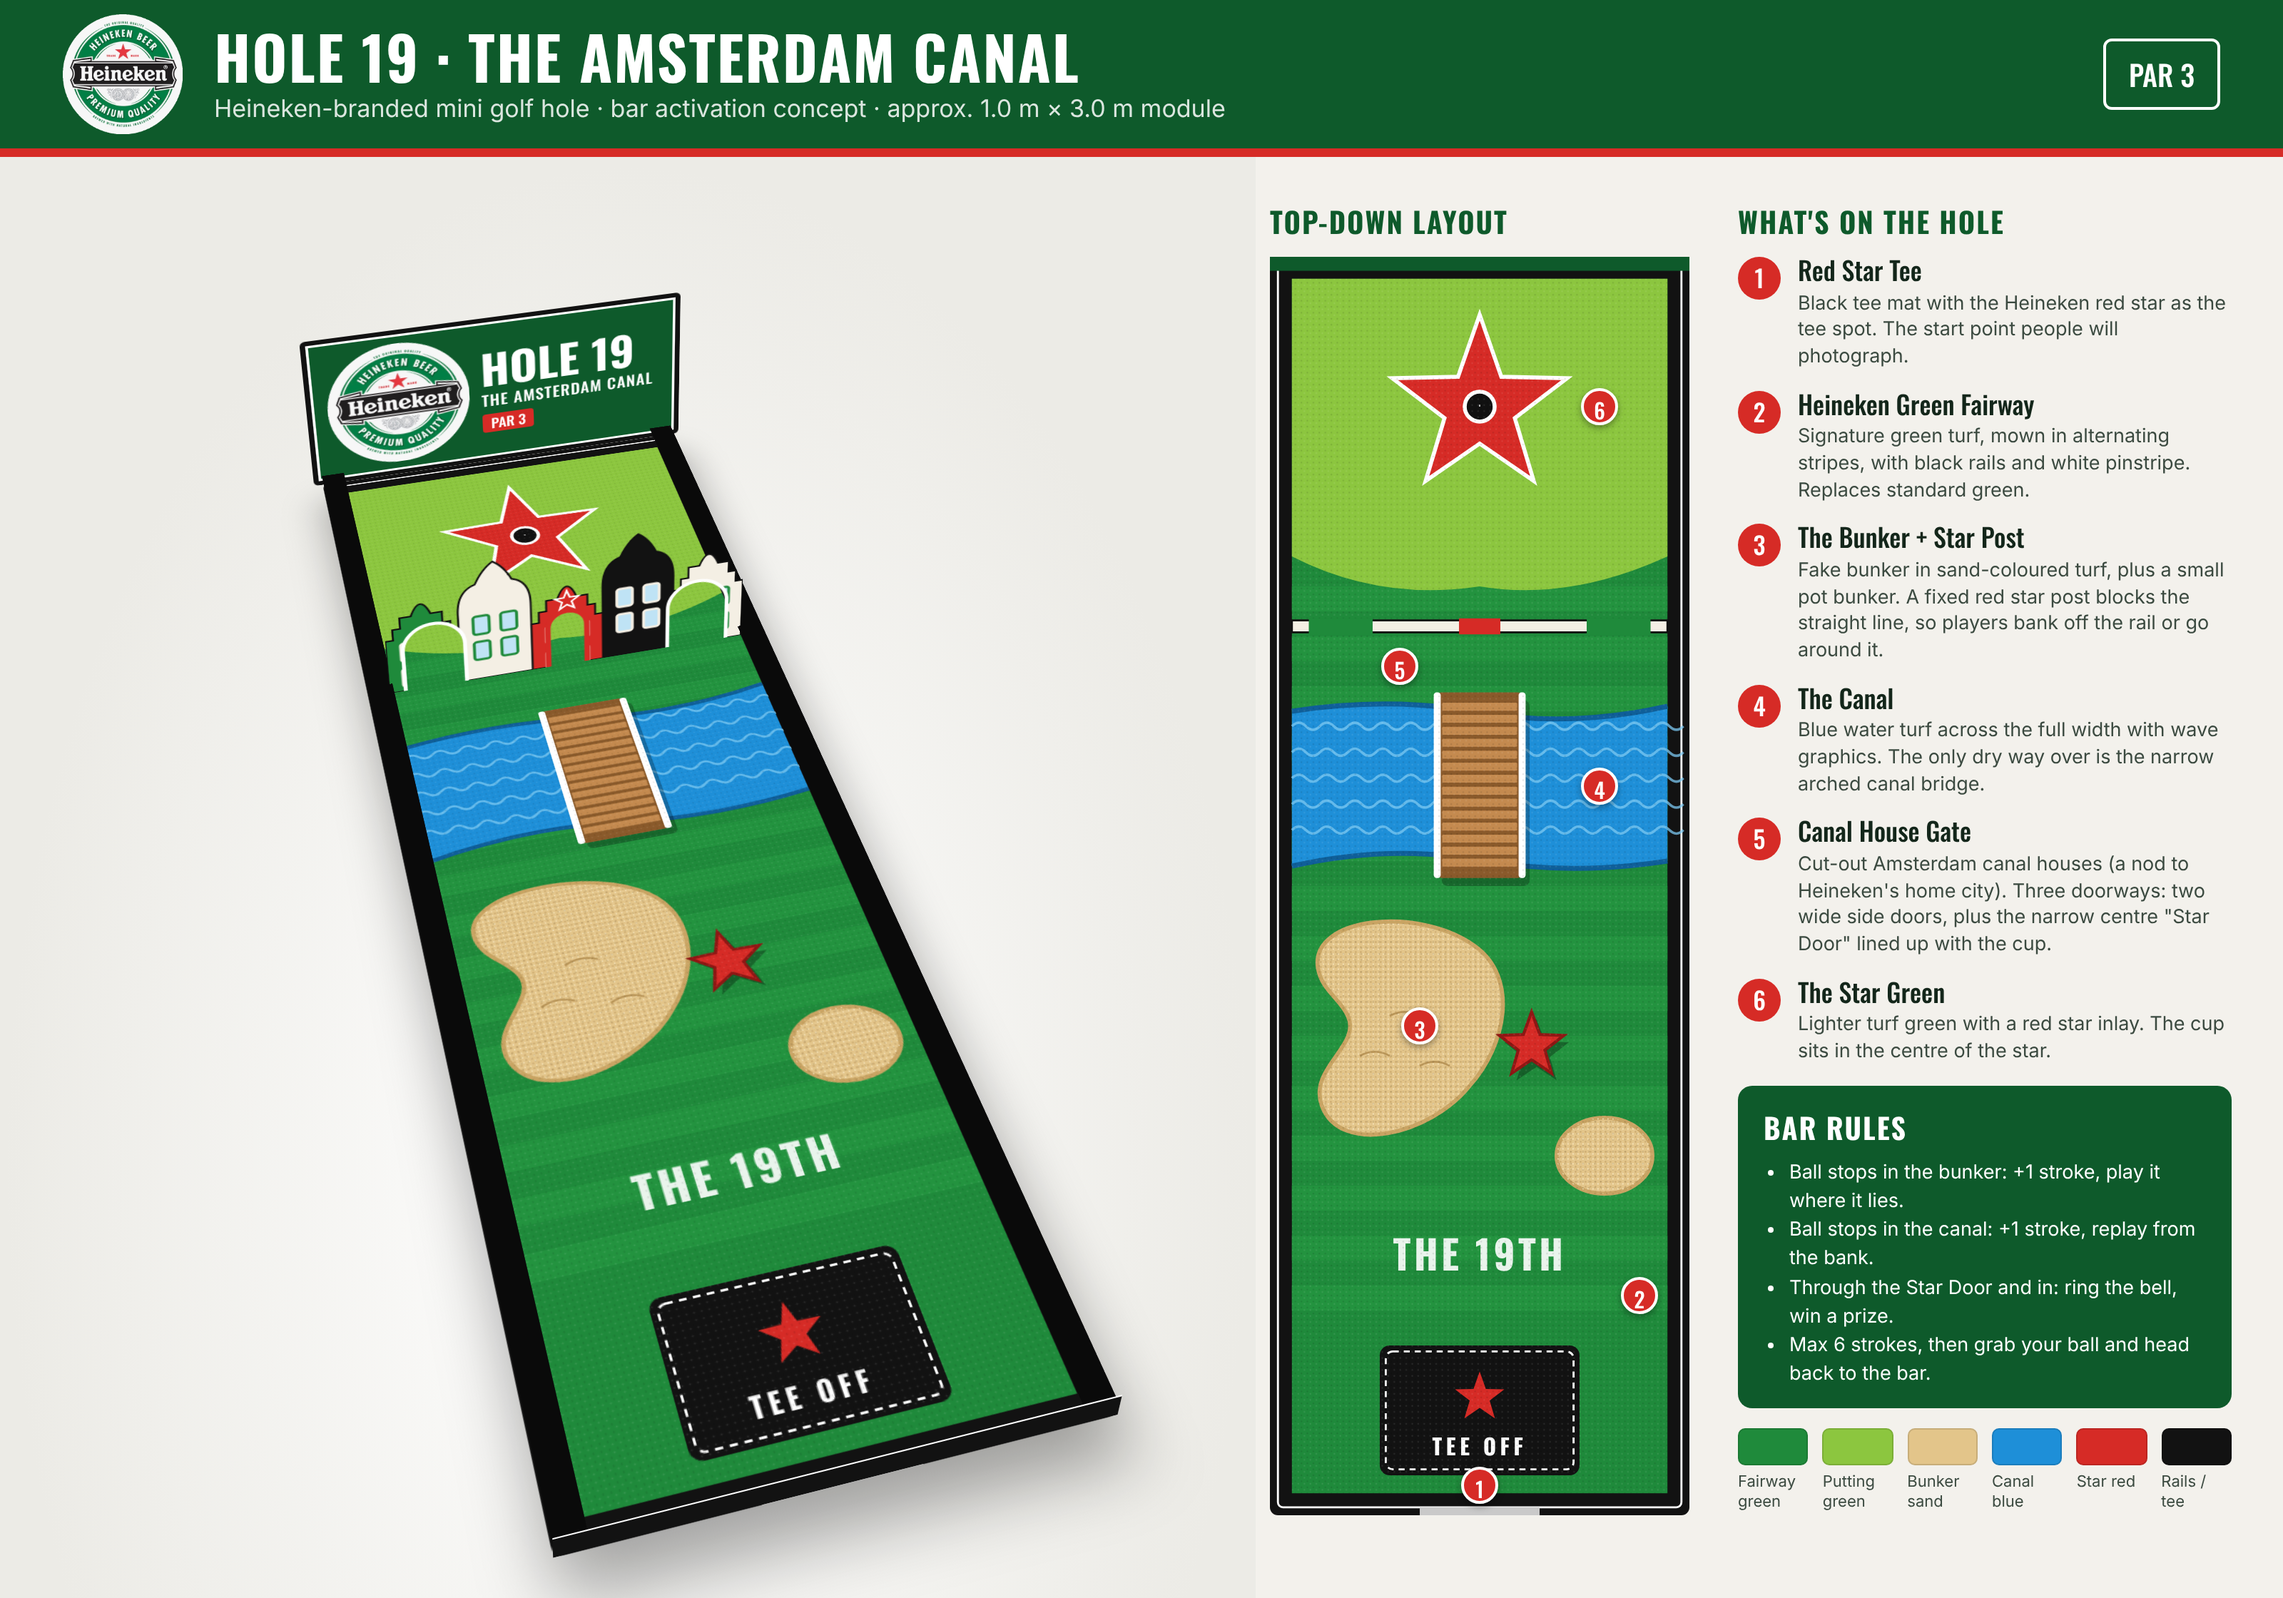
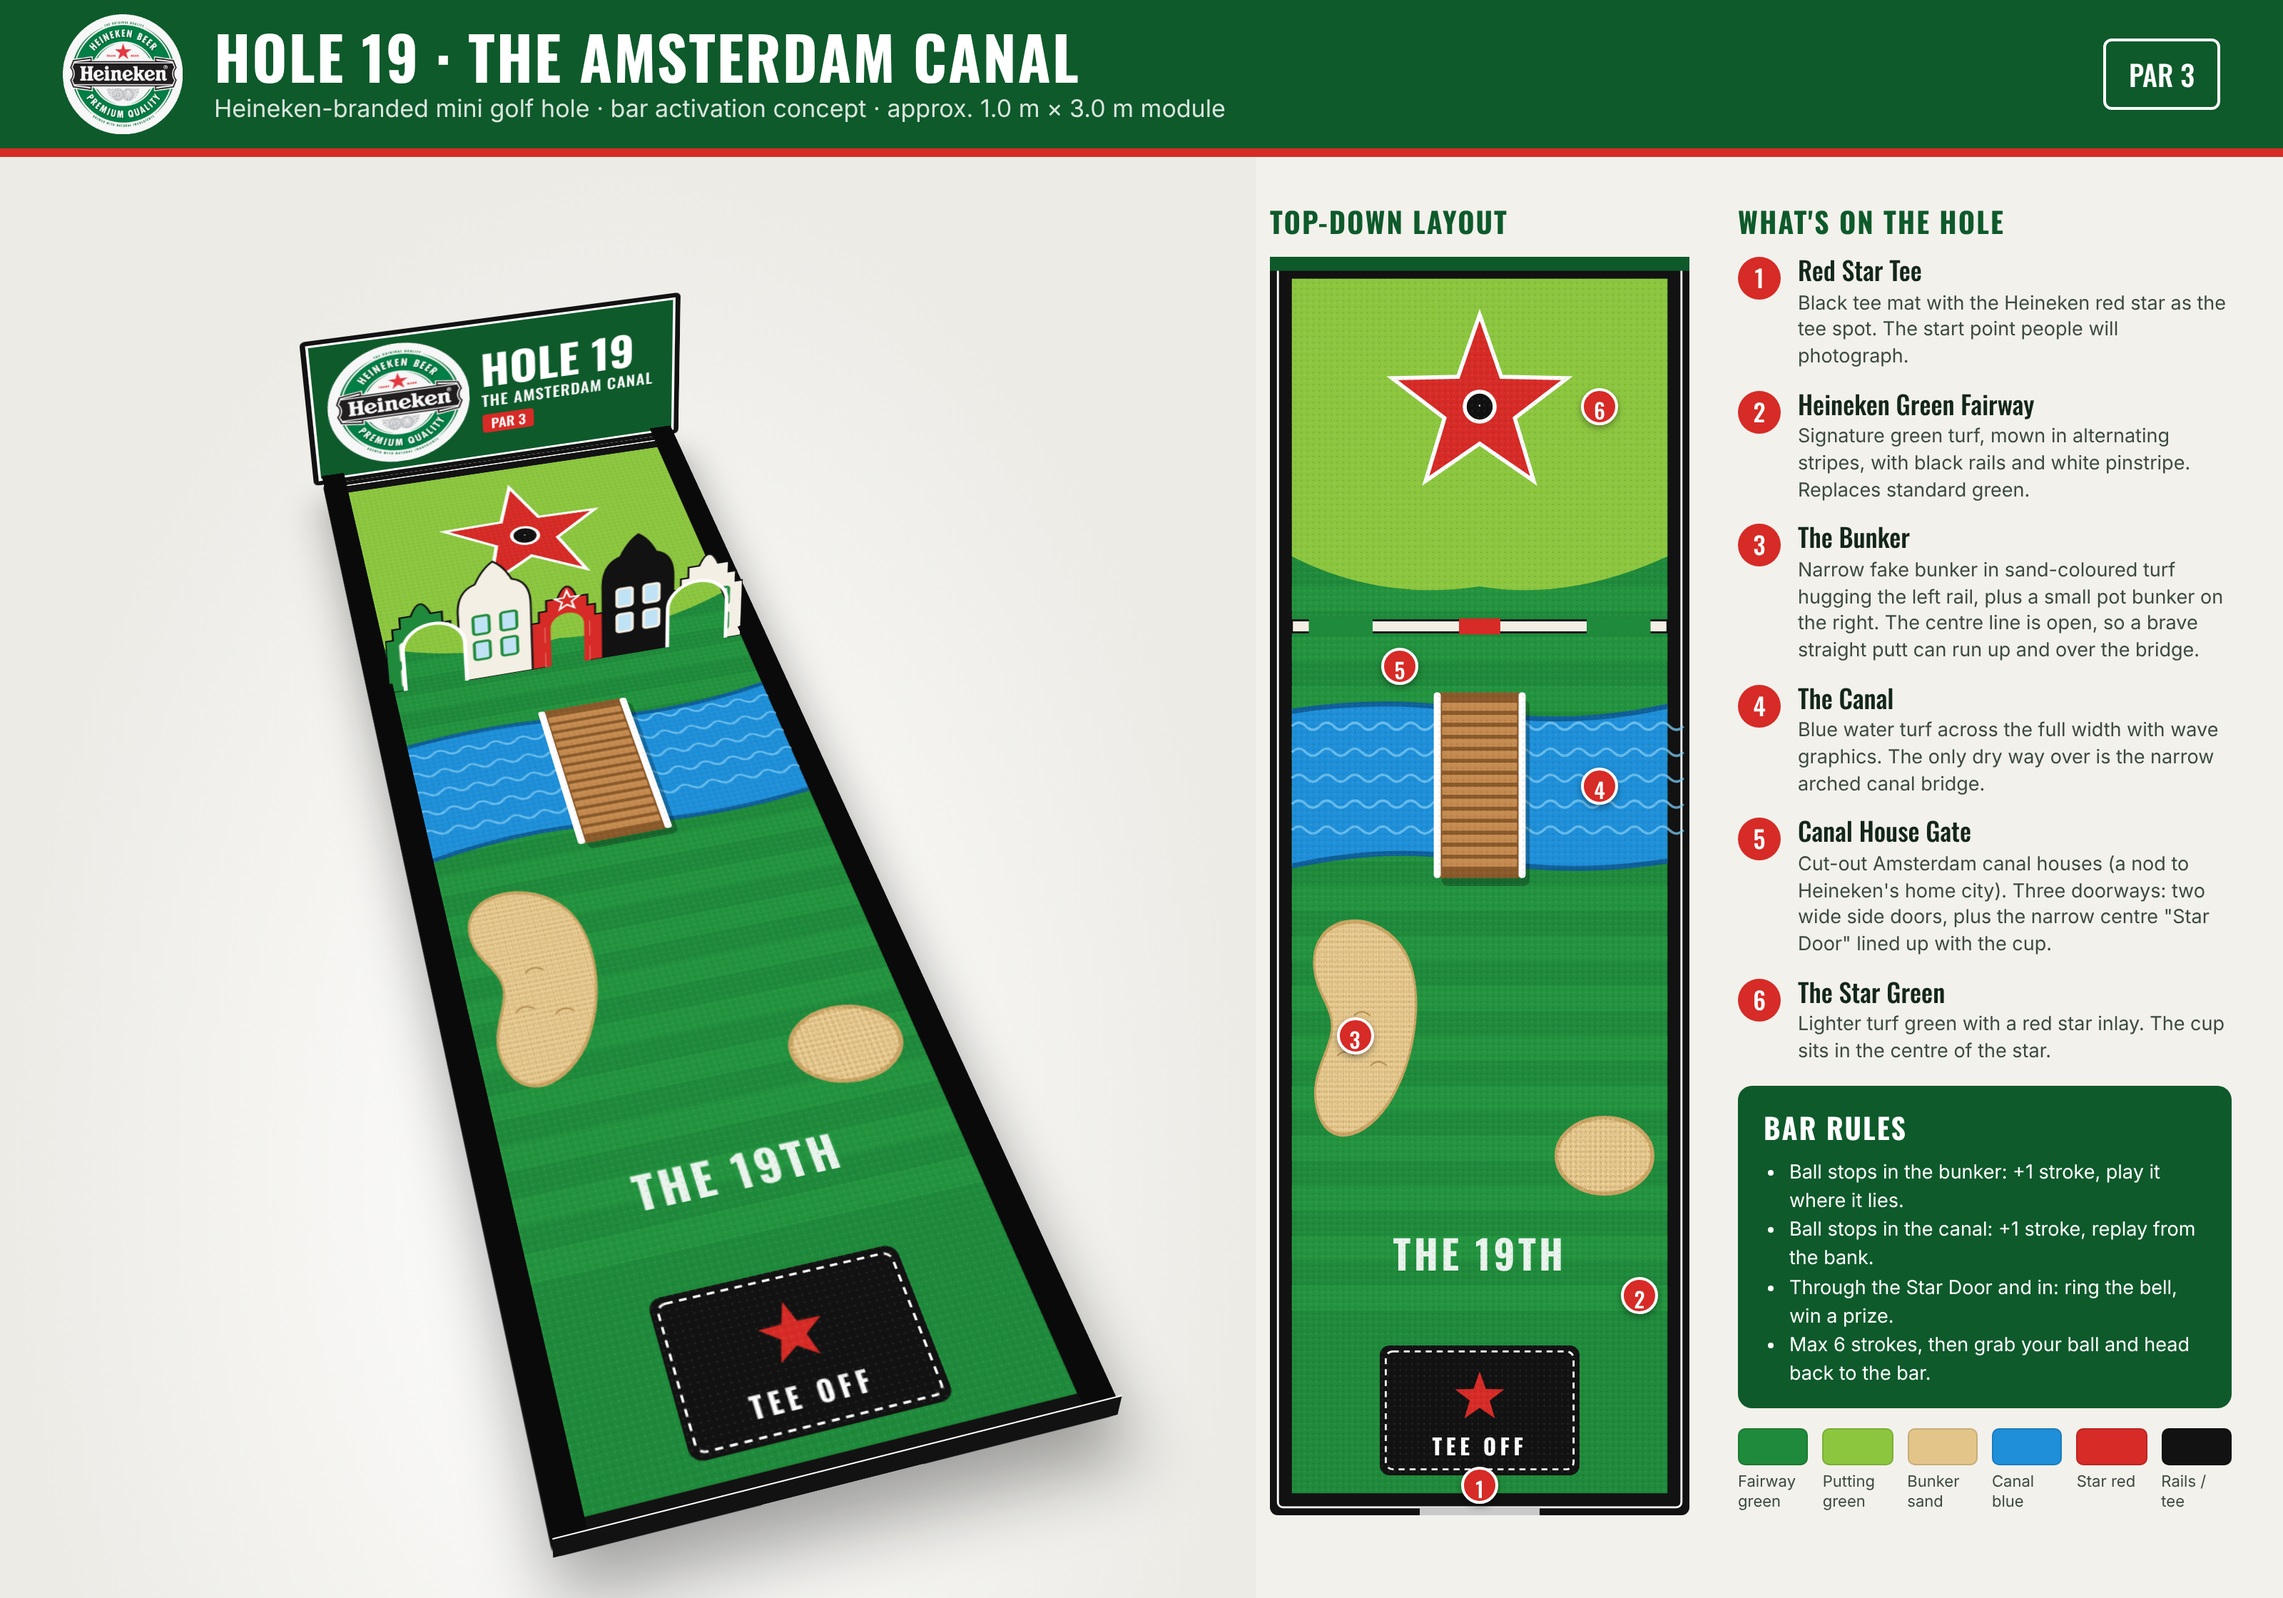
Remove star post and narrow the bunker to open a straight line to the bridge
Claude-Session: https://claude.ai/code/session_01STKavbXfAHMtnv65M2Ry2L

diff --git a/heineken-putt-putt/hole19.html b/heineken-putt-putt/hole19.html
@@ -51,7 +51,7 @@
       <h3>WHAT'S ON THE HOLE</h3>
       <div class="item"><div class="n">1</div><div><h4>Red Star Tee</h4><p>Black tee mat with the Heineken red star as the tee spot. The start point people will photograph.</p></div></div>
       <div class="item"><div class="n">2</div><div><h4>Heineken Green Fairway</h4><p>Signature green turf, mown in alternating stripes, with black rails and white pinstripe. Replaces standard green.</p></div></div>
-      <div class="item"><div class="n">3</div><div><h4>The Bunker + Star Post</h4><p>Fake bunker in sand-coloured turf, plus a small pot bunker. A fixed red star post blocks the straight line, so players bank off the rail or go around it.</p></div></div>
+      <div class="item"><div class="n">3</div><div><h4>The Bunker</h4><p>Narrow fake bunker in sand-coloured turf hugging the left rail, plus a small pot bunker on the right. The centre line is open, so a brave straight putt can run up and over the bridge.</p></div></div>
       <div class="item"><div class="n">4</div><div><h4>The Canal</h4><p>Blue water turf across the full width with wave graphics. The only dry way over is the narrow arched canal bridge.</p></div></div>
       <div class="item"><div class="n">5</div><div><h4>Canal House Gate</h4><p>Cut-out Amsterdam canal houses (a nod to Heineken's home city). Three doorways: two wide side doors, plus the narrow centre "Star Door" lined up with the cup.</p></div></div>
       <div class="item"><div class="n">6</div><div><h4>The Star Green</h4><p>Lighter turf green with a red star inlay. The cup sits in the centre of the star.</p></div></div>
@@ -110,14 +110,13 @@ function surface(){return `
  ${planks()}
  <rect x="164" y="436" width="7" height="186" rx="3" fill="#fff"/><rect x="249" y="436" width="7" height="186" rx="3" fill="#fff"/>
  <!-- bunkers -->
+ <g transform="translate(18,0) scale(0.55,1)">
  <path d="M48 712 C40 660 150 650 205 690 C250 722 236 790 200 830 C160 880 70 900 52 850 C38 812 92 790 78 760 C70 742 52 735 48 712 Z" fill="#e3c58a"/>
  <path d="M48 712 C40 660 150 650 205 690 C250 722 236 790 200 830 C160 880 70 900 52 850 C38 812 92 790 78 760 C70 742 52 735 48 712 Z" fill="url(#sand)" stroke="#c9a463" stroke-width="4"/>
+ <path d="M90 800 q15 -8 30 0 M120 760 q15 -8 30 0 M150 810 q15 -8 30 0" stroke="#b99558" stroke-width="2" fill="none"/>
+ </g>
  <ellipse cx="335" cy="900" rx="48" ry="38" fill="#e3c58a" stroke="#c9a463" stroke-width="4"/>
  <ellipse cx="335" cy="900" rx="48" ry="38" fill="url(#sand)"/>
- <path d="M90 800 q15 -8 30 0 M120 760 q15 -8 30 0 M150 810 q15 -8 30 0" stroke="#b99558" stroke-width="2" fill="none"/>
- <!-- star post -->
- <polygon points="${star(262,790,34,14)}" fill="#000" opacity=".3" transform="translate(5,7)"/>
- <polygon points="${star(262,790,34,14)}" fill="#d62b26" stroke="#8f1714" stroke-width="3"/>
  <!-- tee -->
  <rect x="110" y="1090" width="200" height="130" rx="10" fill="#121212"/>
  <rect x="116" y="1096" width="188" height="118" rx="7" fill="none" stroke="#fff" stroke-width="2" stroke-dasharray="6 5"/>
@@ -178,7 +177,7 @@ pb.innerHTML=`<div style="transform:scale(${s});transform-origin:0 0;position:ab
   <rect x="${22+376*0.87-376*0.085}" y="362" width="${376*0.17}" height="16" fill="#1f8a3b"/>
   <rect x="0" y="0" width="420" height="14" fill="#0e5a2b"/>
  </svg></div>`;
-const pins=[[1,210,1230],[2,370,1040],[3,150,770],[4,330,530],[5,130,410],[6,330,150]];
+const pins=[[1,210,1230],[2,370,1040],[3,85,780],[4,330,530],[5,130,410],[6,330,150]];
 pins.forEach(([n,x,y])=>{pb.innerHTML+=`<div class="pin" style="left:${x*s-13}px;top:${y*s-13}px">${n}</div>`});
 </script>
 </body></html>
